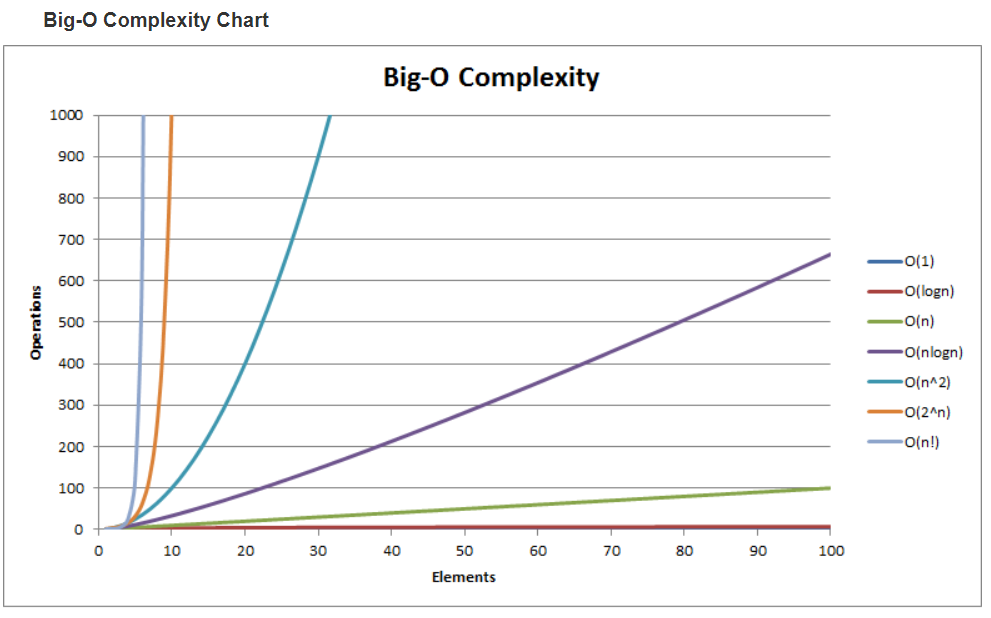
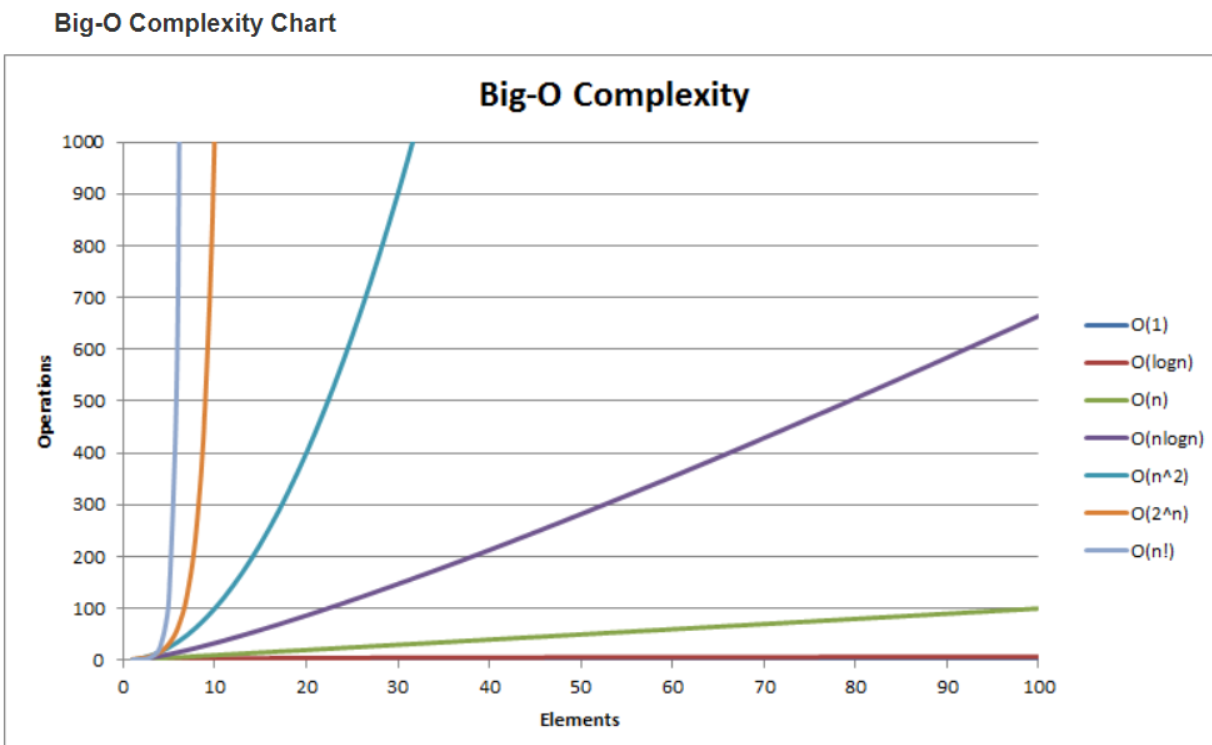
add note

diff --git a/note/W4.md b/note/W4.md
@@ -16,7 +16,8 @@
 
 ## 排序與BigO
 * 時間複雜度用來評估演算法需要花多少時間做計算，我們常用大O符號來描述，代表的是一個漸進的函數數量級上界\
-![PICTURE](https://github.com/victor0520/ai109b/tree/main/note/bitmap/BigO.png)\
+![PICTURE](https://github.com/victor0520/ai109b/tree/main/note/bitmap/BigO.png)
+
 ![PICTURE](https://github.com/victor0520/ai109b/tree/main/note/bitmap/Sorting_BigO.png)
 ## [深度優先&廣度優先](https://ithelp.ithome.com.tw/articles/10252429)
 
